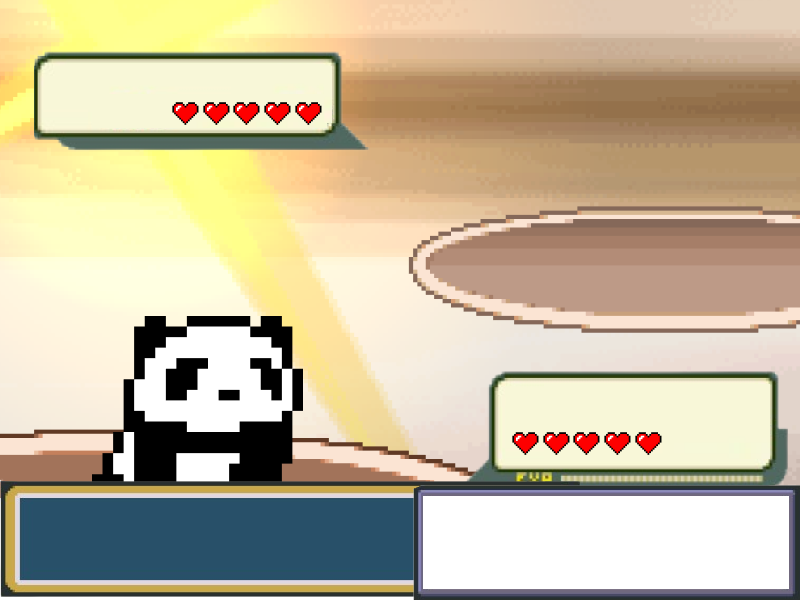
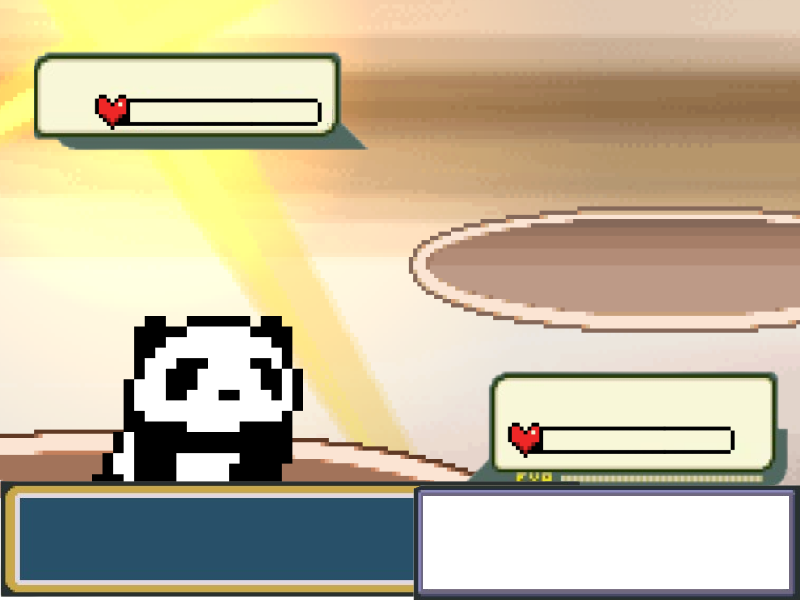
m

Changed region(s): [[0.625, 0.69, 0.9062, 0.78], [0.0938, 0.15, 0.4062, 0.21], [0.9062, 0.72, 0.9375, 0.75]]

diff --git a/ArithmeticEmperor.py b/ArithmeticEmperor.py
@@ -16,8 +16,16 @@ EMPERORPIG = pygame.image.load("images/emperor_pig.png")
 EMPERORPHOENIX = pygame.image.load("images/emperor_phoenix.png")
 EMPERORDRAGON = pygame.image.load("images/emperor_dragon.png")
 
-#Get Mouse Pos
-MOUSE_POS = pygame.mouse.get_pos()
+#Set up Variables
+emperorLevel = 0
+pandaHealth = 100
+emperorHealth = 100 #multiply these by emperor level once determined
+addAttackPower = 10 #multiply these by strength once determined
+emperorHealthDisplayFactor = 188/emperorHealth
+pandaHealthDisplayFactor = 188/pandaHealth
+subAttackPower = 10
+mulAttackPower = 10
+divAttackPower = 10
 
 def get_font(font, size):
     if font == "Sawarabi":
@@ -25,27 +33,52 @@ def get_font(font, size):
     elif font == "Shojumaru":
         return pygame.font.Font("fonts/Shojumaru-Regular.ttf", size)
 
-ADD_BUTTON = Button(image = None, pos = (500, 520), text_input = "Addition", font = get_font("Sawarabi",24), base_colour = "black", hovering_colour = "#d73c37")
-DIV_BUTTON = Button(image = None, pos = (500, 560), text_input = "Division", font = get_font("Sawarabi",24), base_colour = "black", hovering_colour = "#d73c37")
-SUB_BUTTON = Button(image = None, pos = (690, 520), text_input = "Subtraction", font = get_font("Sawarabi",24), base_colour = "black", hovering_colour = "#d73c37")
-MUL_BUTTON = Button(image = None, pos = (700, 560), text_input = "Multiplication", font = get_font("Sawarabi",24), base_colour = "black", hovering_colour = "#d73c37")
+def attack_emperor(attackType):
+  global emperorHealth, emperorHealthDisplay
+  emperorHealth = emperorHealth - attackType
 
-run = True
-while run:
+def start_game():
+  global emperorHealth, emperorHealthDisplayFactor, pandaHealthDisplayFactor
+  while True:
 
-  for event in pygame.event.get():
-    if event.type == pygame.QUIT:
-      run = False
-  
-  # Draw the background image onto the screen
-  SCREEN.blit(BACKGROUND, (0, 0))
-  SCREEN.blit(EMPERORMONKEY, (460, 40))
+    # Draw the background image onto the screen
+    SCREEN.blit(BACKGROUND, (0, 0))
+    SCREEN.blit(EMPERORMONKEY, (460, 40))
+    pygame.draw.rect(SCREEN, (239, 39, 39), pygame.Rect(130, 102, emperorHealthDisplayFactor*emperorHealth, 20))
+    pygame.draw.rect(SCREEN, (239, 39, 39), pygame.Rect(543, 430, 188, 20))
 
-  for button in [ADD_BUTTON, DIV_BUTTON, SUB_BUTTON, MUL_BUTTON]:
-    button.changeColour(MOUSE_POS)
-    button.update(SCREEN)
+    #Get Mouse Pos
+    MOUSE_POS = pygame.mouse.get_pos()  
 
-  # Update the display
-  pygame.display.flip()
+    #Attack Buttons
+    ADD_BUTTON = Button(image = None, pos = (500, 520), text_input = "Addition", font = get_font("Sawarabi",24), base_colour = "black", hovering_colour = "#d73c37")
+    DIV_BUTTON = Button(image = None, pos = (500, 560), text_input = "Division", font = get_font("Sawarabi",24), base_colour = "black", hovering_colour = "#d73c37")
+    SUB_BUTTON = Button(image = None, pos = (690, 520), text_input = "Subtraction", font = get_font("Sawarabi",24), base_colour = "black", hovering_colour = "#d73c37")
+    MUL_BUTTON = Button(image = None, pos = (700, 560), text_input = "Multiplication", font = get_font("Sawarabi",24), base_colour = "black", hovering_colour = "#d73c37")
 
-pygame.quit()
+    for button in [ADD_BUTTON, DIV_BUTTON, SUB_BUTTON, MUL_BUTTON]:
+      button.changeColour(MOUSE_POS)
+      button.update(SCREEN)
+
+    for event in pygame.event.get():
+      if event.type == pygame.QUIT:
+        pygame.quit()
+      if event.type == pygame.MOUSEBUTTONDOWN:
+        if ADD_BUTTON.checkInput(MOUSE_POS):
+            attack_emperor(addAttackPower)
+        if DIV_BUTTON.checkInput(MOUSE_POS):
+            attack_emperor(divAttackPower)
+        if SUB_BUTTON.checkInput(MOUSE_POS):
+            attack_emperor(subAttackPower)
+        if MUL_BUTTON.checkInput(MOUSE_POS):
+            attack_emperor(mulAttackPower)
+
+    mouse_x, mouse_y = MOUSE_POS
+    font = pygame.font.Font(None, 36)
+    text = font.render(f"Mouse Position: ({mouse_x}, {mouse_y})", True, (0,0,0))
+    SCREEN.blit(text,(10,10))
+
+    # Update the display
+    pygame.display.flip()
+
+start_game()
